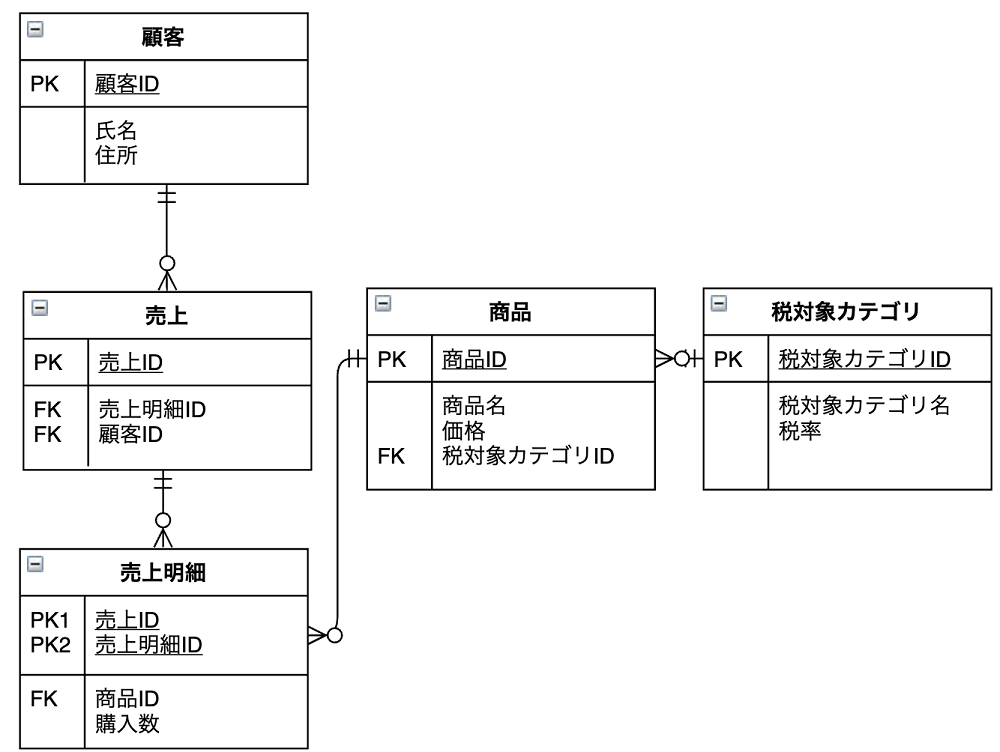
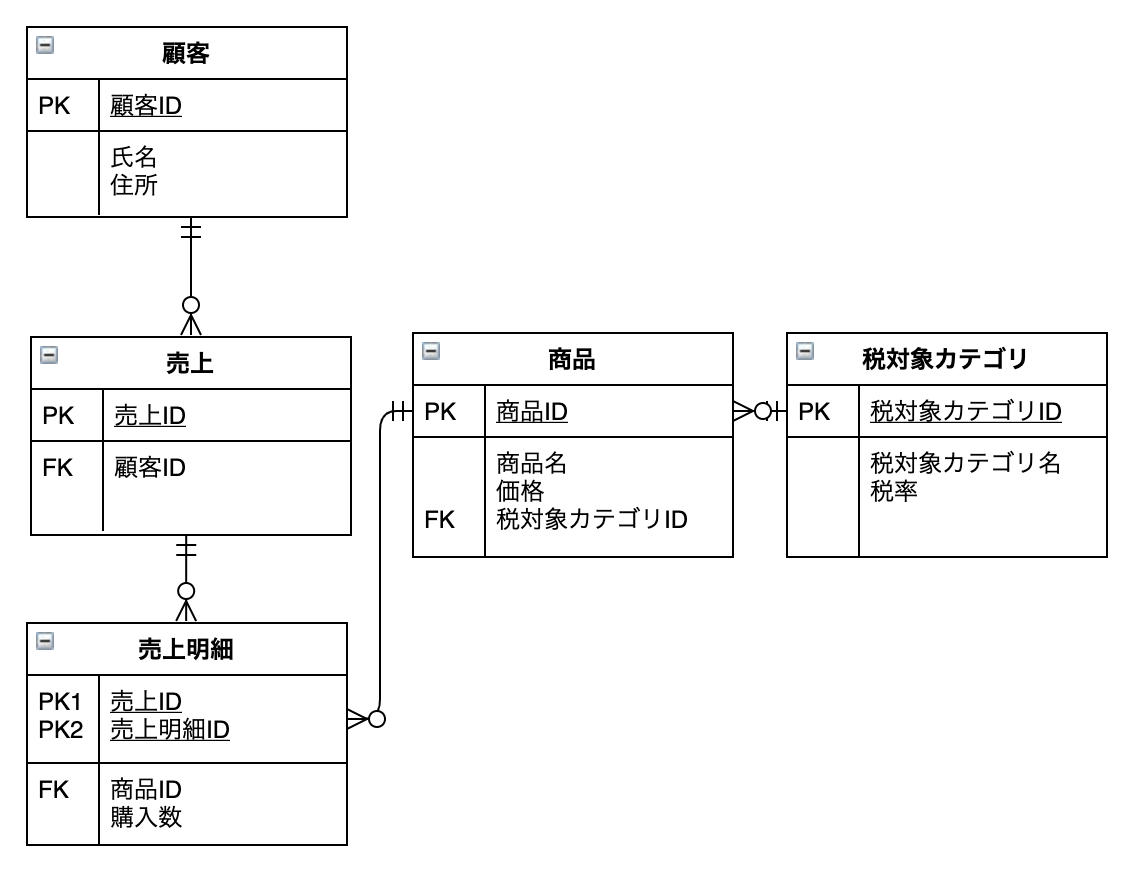
Swift

Changed region(s): [[0.0, 0.0, 1.0, 1.0]]

diff --git a/source/_posts/20200617-春祭り13-swift.md b/source/_posts/20200617-春祭り13-swift.md
@@ -1,0 +1,216 @@
+title: "春の入門祭り 🌸 #13 Swift Compositional Layouts入門：複雑なCollectionViewをシンプルに実装する"
+date: 2020/06/17 10:20:21
+tags:
+  - Swift
+  - MobileApp
+category:
+  - Programming
+thumbnail: /images/20200617/thumbnail.png
+author: "福谷友宏"
+featured: true
+lede: "お仕事では主にサーバーサイド領域で開発していますが、趣味でiOSアプリを開発しており、春の入門祭りの社内アナウンスがあったので書いてみようと思います。iOSアプリで記事や写真などを一覧表示させたい場合、必ずと言っていいほどCollectionView（あるいはTableView）が採用されると思います。"
+---
+
+[春の入門祭り](https://future-architect.github.io/articles/20200529/)の第13弾です。
+
+# はじめに
+TIG メディアユニットの福谷（ふくや）です。
+
+お仕事では主にサーバーサイド領域で開発していますが、趣味でiOSアプリを開発しており、春の入門祭りの社内アナウンスがあったので書いてみようと思います。
+
+iOSアプリで記事や写真などを一覧表示させたい場合、必ずと言っていいほどCollectionView（あるいはTableView）が採用されると思います。
+
+iPhoneが発売された当初のデザインは、縦にコンテンツが並ぶだけのレイアウトでしたが、昨今はコンテンツの一覧性・視認性をより高めるために、縦にも横にもスクロールできるCollectionViewが一般的になってきています。
+<img src="/images/20200617/1.png" class="img-small-size">
+
+# Compositional Layouts
+
+そこでCompositional Layoutsの登場です。
+
+Compositional LayoutsはWWDC2019に発表された複雑なレイアウトをシンプルに実装するための考え方です。CollectionViewにおいては`UICollectionViewCompositionalLayout`クラス[^6]を利用します。
+
+[^6]: [https://developer.apple.com/documentation/uikit/uicollectionviewcompositionallayout](https://developer.apple.com/documentation/uikit/uicollectionviewcompositionallayout)
+
+Compositional Layoutsの詳しい解説はWWDC2019の動画[^2]を見るか、それを元に解説した記事[^3]もあるのでそちらを参照してください。また公式サンプルコード[^7]もかなり参考になるためおすすめです。
+
+※公式ではiOS13でサポートされていますが、iOS13以前でも利用可能にするためのライブラリ[^1]がでています。
+[^1]: [https://github.com/kishikawakatsumi/IBPCollectionViewCompositionalLayout](https://github.com/kishikawakatsumi/IBPCollectionViewCompositionalLayout)
+
+[^2]: [https://developer.apple.com/videos/play/wwdc2019/215/](https://developer.apple.com/videos/play/wwdc2019/215/)
+[^3]: [https://qiita.com/shiz/items/a6032543a237bf2e1d19#%E8%83%8C%E6%99%AF%E3%81%A8%E3%81%97%E3%81%A6%E3%81%AE%E6%99%82%E4%BB%A3%E3%81%AE%E5%A4%89%E5%8C%96](https://qiita.com/shiz/items/a6032543a237bf2e1d19#%E8%83%8C%E6%99%AF%E3%81%A8%E3%81%97%E3%81%A6%E3%81%AE%E6%99%82%E4%BB%A3%E3%81%AE%E5%A4%89%E5%8C%96)
+[^7]: [https://developer.apple.com/documentation/uikit/views_and_controls/collection_views/using_collection_view_compositional_layouts_and_diffable_data_sources](https://developer.apple.com/documentation/uikit/views_and_controls/collection_views/using_collection_view_compositional_layouts_and_diffable_data_sources)
+
+# アプリを作る
+
+以下のようなFuture Tech Blogリーダーを作ってみようと思います。
+
+ソース全量は[こちら](https://github.com/popai306/FutureTechBlogReader)。
+※以降の解説はCompositional Layoutsの実装部分に焦点を当てて解説していきます。
+
+<img src="/images/20200617/photo_20200617_01.gif" class="img-middle-size" style="border:solid 1px #000000">
+
+### item・group・sectionの構成を決める
+
+Compositional Layoutは item・group・section、そしてsectionを内包するlayoutにより構成されます。
+<img src="/images/20200617/2.png" class="img-middle-size">
+
+今回作るアプリのUIを例に、item・group・sectionをどう構成するかについて示したのが下記の画像です。
+<img src="/images/20200617/3.png" class="img-middle-size" style="border:solid 1px #000000">
+
+それではLayoutを書いていきましょう。
+
+### Compositional Layoutで実装する
+まず大枠のSectionから書いていきます。
+
+```swift
+func createLayout() -> UICollectionViewLayout {
+    let sectionProvider = { (sectionIndex: Int,
+        layoutEnvironment: NSCollectionLayoutEnvironment) -> NSCollectionLayoutSection? in
+        
+        let section = NSCollectionLayoutSection(group: group)
+        section.orthogonalScrollingBehavior = sectionKind.scrollingBehavior()
+
+        //①
+        section.interGroupSpacing = 10
+        //②
+        section.contentInsets = NSDirectionalEdgeInsets(top: 0, leading: 15, bottom: 0, trailing: 15)
+
+        // section headerの定義
+        let sectionHeaderSize = NSCollectionLayoutSize(widthDimension: .fractionalWidth(1.0),
+                                                       heightDimension: .estimated(44))
+        let sectionHeader = NSCollectionLayoutBoundarySupplementaryItem(layoutSize: sectionHeaderSize, elementKind: "header", alignment: .top)
+        section.boundarySupplementaryItems = [sectionHeader]
+
+        return section
+    }
+    
+    let config = UICollectionViewCompositionalLayoutConfiguration()
+    //③
+    config.interSectionSpacing = 30
+
+    let layout = UICollectionViewCompositionalLayout(sectionProvider: sectionProvider, configuration: config)
+    return layout
+}
+```
+
+`sectionheaderSize`の`widthDimension`に引数として渡している`fractionalWidth(1.0)`は、sectionの横幅と同じ比率でheaderの横幅を定義することを意味します。[^4]
+
+[^4]: [https://developer.apple.com/documentation/uikit/nscollectionlayoutdimension/3199059-fractionalwidth](https://developer.apple.com/documentation/uikit/nscollectionlayoutdimension/3199059-fractionalwidth)
+
+また、`heightDimension`に引数として渡している`estimated(44)`は、44で高さを指定するものの最終的なレイアウトはレンダリング時に決定します（＝「弱い定義」と勝手に呼んでいます）。[^5]
+[^5]: [https://developer.apple.com/documentation/uikit/nscollectionlayoutdimension/3199057-estimated](https://developer.apple.com/documentation/uikit/nscollectionlayoutdimension/3199057-estimated)
+
+<br>
+ソースコード中の余白定義①②③はそれぞれUI上の下記のポイントに対応しています。
+<img src="/images/20200617/4.png" class="img-middle-size" style="border:solid 1px #000000">
+
+続いてitem・groupのレイアウトを定義していきます。
+
+```swift
+func createLayout() -> UICollectionViewLayout {
+    let sectionProvider = { (sectionIndex: Int,
+        layoutEnvironment: NSCollectionLayoutEnvironment) -> NSCollectionLayoutSection? in
+        // セクションのenum
+        guard let sectionKind = SectionLayoutKind(rawValue: sectionIndex) else { fatalError("unknown section kind") }
+        
+        // itemの定義
+        let itemSize = NSCollectionLayoutSize(widthDimension: .fractionalWidth(1.0),
+                                              heightDimension: .fractionalHeight(1.0))
+        let item = NSCollectionLayoutItem(layoutSize: itemSize)
+
+        // groupの定義    
+        let groupWidth = layoutEnvironment.container.effectiveContentSize.width - 15 * 2 - 5
+        let groupSize = NSCollectionLayoutSize(widthDimension: .absolute(groupWidth),
+                                               heightDimension: .absolute(150))
+        let group: NSCollectionLayoutGroup
+        if sectionKind == .recommend {
+            group = NSCollectionLayoutGroup.horizontal(layoutSize: groupSize, subitem: item, count: 2)
+        } else {
+            group = NSCollectionLayoutGroup.vertical(layoutSize: groupSize, subitem: item, count: 2)
+        }
+        group.interItemSpacing = NSCollectionLayoutSpacing.fixed(10)
+        
+        // sectionの定義
+        let section = NSCollectionLayoutSection(group: group)
+        section.orthogonalScrollingBehavior = sectionKind.scrollingBehavior()
+        section.interGroupSpacing = 10
+        section.contentInsets = NSDirectionalEdgeInsets(top: 0, leading: 15, bottom: 0, trailing: 15)
+        
+        let sectionHeaderSize = NSCollectionLayoutSize(widthDimension: .fractionalWidth(1.0),
+                                                       heightDimension: .estimated(44))
+        let sectionHeader = NSCollectionLayoutBoundarySupplementaryItem(layoutSize: sectionHeaderSize, elementKind: "header", alignment: .top)
+        section.boundarySupplementaryItems = [sectionHeader]
+        return section
+    }
+    
+    let config = UICollectionViewCompositionalLayoutConfiguration()
+    config.interSectionSpacing = 30
+
+    let layout = UICollectionViewCompositionalLayout(sectionProvider: sectionProvider, configuration: config)
+    return layout
+}
+```
+#### SectionLayoutKind
+
+`SectionLayoutKind`はアプリ中の`おすすめ`や`春の入門祭り`などのセクションをenumで定義したもので、
+下記の通り定義しています。
+
+```swift
+enum SectionLayoutKind: Int {
+    case recommend, springEntry, goTips, serverless
+    func scrollingBehavior() -> UICollectionLayoutSectionOrthogonalScrollingBehavior {
+        switch self {
+        case .recommend:
+            return .continuous
+        default:
+            return .groupPaging
+        }
+    }
+}
+```
+もし固定的にセクションを管理するならenumで定義しておくのが良いと思います。
+
+一方でenumで定義するとenum内でセクションごとのレイアウト情報をいろいろ管理したくなりますが、`createLayout()`内にもレイアウト定義をしているので、見通しを良くするためにも最低限のレイアウト情報のみenum内で定義すべきだと思います。（この場合水平スクロールの挙動）
+
+#### groupのレイアウト定義
+
+```swift
+let group: NSCollectionLayoutGroup
+if sectionKind == .recommend {
+    // ①おすすめセクションのgroup定義
+    group = NSCollectionLayoutGroup.horizontal(layoutSize: groupSize, subitem: item, count: 2)
+} else {
+    // ②おすすめセクション以外ののgroup定義
+    group = NSCollectionLayoutGroup.vertical(layoutSize: groupSize, subitem: item, count: 2)
+}
+// item間の空白の定義
+group.interItemSpacing = NSCollectionLayoutSpacing.fixed(10)
+```
+
+②おすすめセクション以外ののgroup定義
+
+`NSCollectionLayoutGroup.vertical(layoutSize: groupSize, subitem: item, count: 2)`
+`vertical`で`count`を"２"にすることによって垂直にitemを２つスタックしています。
+
+①おすすめセクションのgroup定義
+
+おすすめの記事は画像を大きくして目立たせたいので水平にitemを２つスタックしています。
+`NSCollectionLayoutGroup.horizontal(layoutSize: groupSize, subitem: item, count: 2)`
+
+#### groupSizeの定義
+
+```swift
+let groupWidth = layoutEnvironment.container.effectiveContentSize.width - 15 * 2
+let groupSize = NSCollectionLayoutSize(widthDimension: .absolute(groupWidth), heightDimension: .absolute(150))
+```
+
+`layoutEnvironment.container.effectiveContentSize`はcollectionViewの描画領域を意味しています。今回は対応していませんが、例えばスマホの向きによってアプリのレイアウトを変えたい場合はこの値を使って分岐処理を書けば対応できます。
+
+# おわりに
+
+以上が今回のアプリのレイアウト部分に関する解説になります。コメントを除いて38行で書けました。
+
+同じレイアウトをUICollectionViewLayoutのカスタムクラスで実現しようとしたらかなりの行数・難易度になるのではないでしょうか。item・group・sectionの理解さえすれば私のような初学者でも簡易かつシンプルに実装できるので、今後のiOSアプリ開発でどんどん採用されていくのではと思います。
+
+その際の参考になれば幸いです！
+

diff --git a/source/_posts/20200616-春祭り12-dbmodel.md b/source/_posts/20200616-春祭り12-dbmodel.md
@@ -12,6 +12,8 @@ featured: true
 lede: "DB設計のデータモデリング入門として、コンビニのレシートを使ったDB設計をやっていきます。DB設計はよく物理と論理の両面があると言われますが、今回は論理設計について扱います。毎日のように、みなさんが見ているものだと思いますが、このような身近なものにもIT技術が使われており、当然データを格納するDBがあります。DB設計のトレーニングとして身近な帳票（レシートや請求書など、データの印刷されたもの）から、それらを支えるインフラ技術や、プログラムソースコード、DBの設計などを想像することは良い手段です。"
 ---
 
+[春の入門祭り](https://future-architect.github.io/articles/20200529/)の第12弾です。
+
 # 自己紹介
 こんにちは、TIGメディアユニットチームの川島です。
 
@@ -116,6 +118,9 @@ PKとして空欄にしていた部分に、IDを設定します。
 売上明細というテーブルを作成します。
 
 <img src="/images/20200616/8.png">
+
+（注）FKが一部間違っていたので修正しました 6/16
+
 
 今回は省きますが、加えて以下もやってみると理解が深まるでしょう。
 
